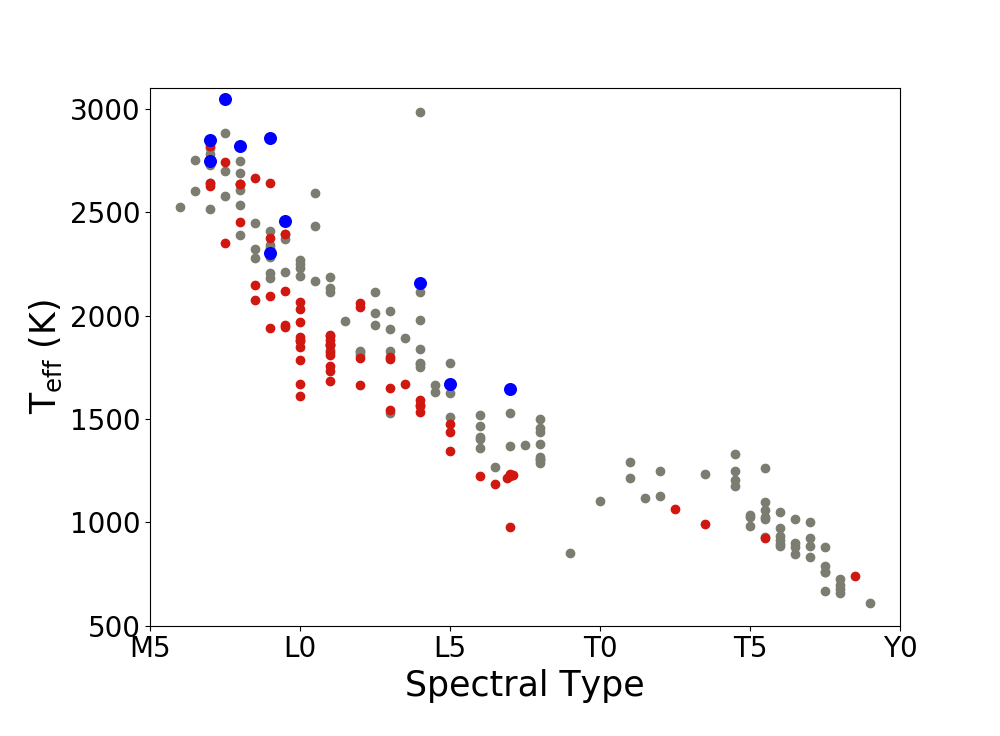
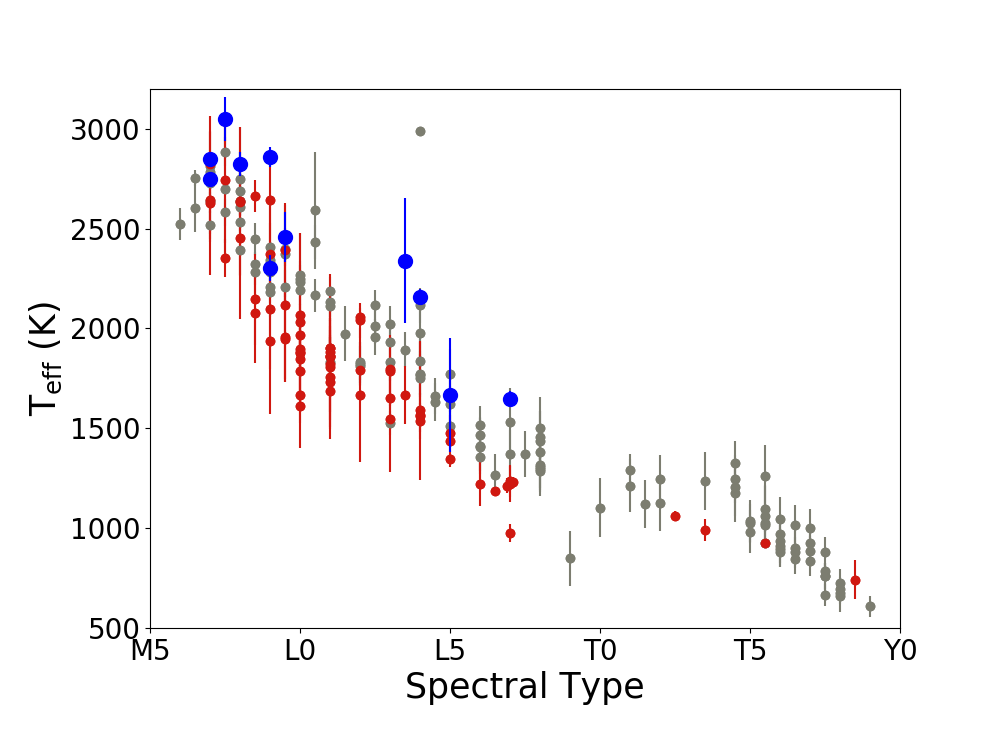
Added error bars and forced subwarfs to plot last

diff --git a/SpTvTeff.py b/SpTvTeff.py
@@ -2,7 +2,7 @@ import pandas as pd
 import matplotlib.pyplot as plt
 
 df_sub = pd.read_csv('Data/Subdwarf_Spt_v_Teff.txt', sep=" ", comment='#', header=None,
-                      names=["name", "SpT", "Teff", 'err', 'lbol', 'lbol_err'])
+                      names=["name", "SpT", "Teff", 'Teff_err', 'lbol', 'lbol_err'])
 df_comb = pd.read_csv('Data/Lbol+Teff-February2017.txt', sep="\t", comment='#', header=None,
                       names=["name", "Lbol", "Lbol_err", 'Teff', 'Teff_err', 'spt', 'spt_unc', 'group', 'grav'])
 
@@ -23,7 +23,7 @@ ax1 = fig.add_subplot(111)
 fig.set_size_inches(10, 645)  # to make sure proper size run entire code at once and change 8 to 6.45 to
 plt.gcf().subplots_adjust(bottom=0.15, left=0.15)
 plt.xlim([5, 30])
-plt.ylim([500, 3100])
+plt.ylim([500, 3200])
 
 # ------ Axes Labels --------
 plt.xticks([5, 10, 15, 20, 25, 30], ['M5', 'L0', 'L5', 'T0', 'T5', 'Y0'], fontsize=20)
@@ -33,7 +33,11 @@ plt.ylabel('T$_\mathrm{eff}$ (K)', fontsize=25)
 
 # ------- Add Data ------
 plt.scatter(df_fld['spt'], df_fld['Teff'], color='#7C7D70')
+ax1.errorbar(df_fld['spt'], df_fld['Teff'], yerr=df_fld['Teff_err'], c='#7C7D70', fmt='o')
 plt.scatter(df_young['spt'], df_young['Teff'], color='#D01810')
-plt.scatter(df_sub['SpT'], df_sub['Teff'], color='blue', s=70)
+ax1.errorbar(df_young['spt'], df_young['Teff'], yerr=df_young['Teff_err'], c='#D01810', fmt='o')
+plt.scatter(df_sub['SpT'], df_sub['Teff'], color='blue', s=100, zorder=5)
+ax1.errorbar(df_sub['SpT'], df_sub['Teff'], yerr=df_sub['Teff_err'], c='blue', fmt='o', zorder=6)
+# zorder makes it go on top even if it covers other points!
 
 plt.savefig('Plots/SptvTeff.png')

diff --git a/SptvLbol.py b/SptvLbol.py
@@ -33,7 +33,10 @@ plt.ylabel('log(L$_\mathrm{bol}$/L$_\odot$)', fontsize=25)
 
 # ------- Add Data ------
 plt.scatter(df_fld['spt'], df_fld['Lbol'], color='#7C7D70')
+ax1.errorbar(df_fld['spt'], df_fld['Lbol'], yerr=df_fld['Lbol_err'], c='#7C7D70', fmt='o')
 plt.scatter(df_young['spt'], df_young['Lbol'], color='#D01810')
-plt.scatter(df_sub['SpT'], df_sub['lbol'], color='blue', s=70)
+ax1.errorbar(df_young['spt'], df_young['Lbol'], yerr=df_young['Lbol_err'], c='#D01810', fmt='o')
+plt.scatter(df_sub['SpT'], df_sub['lbol'], color='blue', s=100, zorder=5)
+ax1.errorbar(df_sub['SpT'], df_sub['lbol'], yerr=df_sub['lbol_err'], c='blue', fmt='o', zorder=6)
 
 plt.savefig('Plots/SptvLbol.png')
